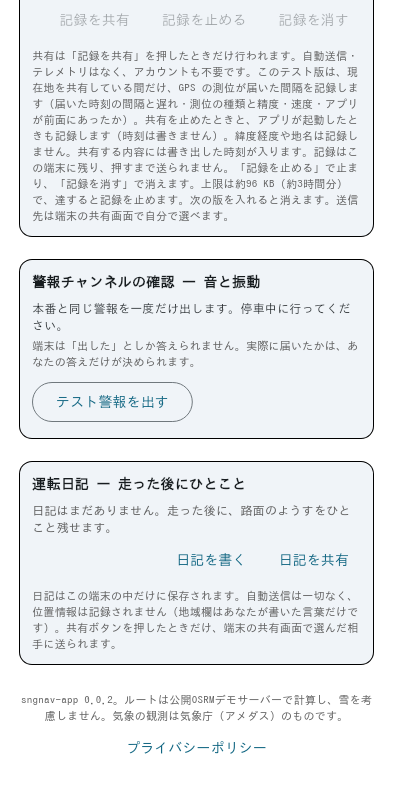
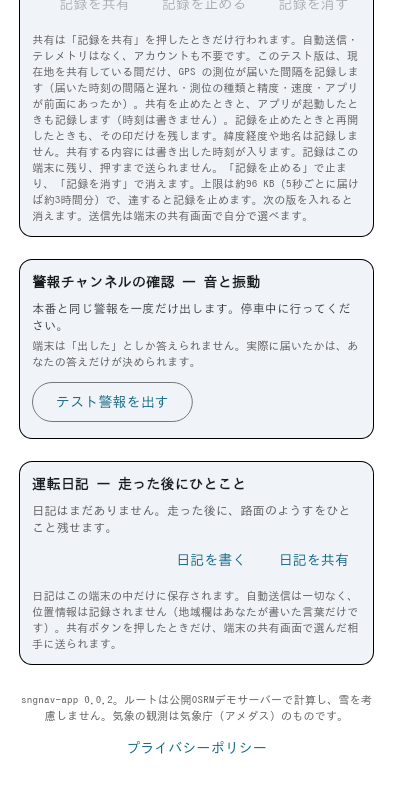
Code 13 only: a pause he makes in the record says itself
While he had stopped the record nothing was written, so a pause inside one
share read as one long interval: the same trace as a phone that went
quiet. Read on the safe side, that could put a false slow-phone verdict
in front of the Chair, and hold back the change that stops tunnels crying
wolf at a driver in unexpected snow.

At 記録を止める, "s=0 t=0 k=pause" is written and flushed before the stop
takes effect. At 記録を再開, "s=0 t=0 k=resume" is written after recording
resumes, through the ordinary guard, so it appears only if recording did
resume. The pause passes the stop guard and never the cap: a full record
still stops, with no line. A second stop or a resume while recording
writes nothing. A launch while he has stopped the record stays unwritten.
The whitelist admits these two shapes and no variant; neither carries a
clock or a coordinate.

The card's words say it marks when he stops and restarts recording, and
its cap now reads "about 3 hours if fixes arrive every 5 s": the duration
held depends on the very interval this build measures. The diary card's
capture, which frames the longer words above it, is updated and looked at.

Changed region(s): [[0.0916, 0.0, 0.916, 0.3015]]

diff --git a/test/services/fix_timing_record_test.dart b/test/services/fix_timing_record_test.dart
@@ -193,7 +193,8 @@ void main() {
       r.stop();
       expect(r.recordEnd(share: 1, msSinceStreamStart: 5), isFalse);
       expect(r.recordLaunch(), isFalse);
-      expect(r.hasLines, isFalse);
+      expect(r.readAll(), '$kFixTimingPauseLine\n',
+          reason: 'only the pause line may be written by a stop');
       final small = open(maxBytes: 256);
       small.resume();
       while (fine(small, 1)) {}
@@ -215,6 +216,71 @@ void main() {
     });
   });
 
+  group('a pause he makes says itself (V15)', () {
+    test('stop writes pause before it takes effect, and nothing after it; '
+        'resume writes resume after recording resumes', () {
+      final r = open();
+      fine(r, 1);
+      r.stop();
+      expect(r.stopped, isTrue);
+      expect(fine(r, 2), isFalse);
+      r.resume();
+      expect(fine(r, 3), isTrue);
+      final lines = r.readAll().split('\n').where((l) => l.isNotEmpty).toList();
+      expect(lines, [
+        startsWith('s=1 t=1000 k=fine'),
+        kFixTimingPauseLine,
+        kFixTimingResumeLine,
+        startsWith('s=1 t=3000 k=fine'),
+      ]);
+    });
+
+    test('a second stop or a resume while recording writes nothing', () {
+      final r = open();
+      r.resume();
+      expect(r.hasLines, isFalse, reason: 'a resume with no pause');
+      r.stop();
+      r.stop();
+      expect(r.readAll(), '$kFixTimingPauseLine\n',
+          reason: 'two pause lines for one pause');
+    });
+
+    test('neither passes the cap: a full record stops with no pause line, and '
+        'resuming a full record writes no resume line', () {
+      final r = open(maxBytes: 300);
+      while (fine(r, 1)) {}
+      expect(r.full, isTrue);
+      final held = r.readAll();
+      r.stop();
+      expect(r.stopped, isTrue, reason: 'the stop must still take effect');
+      expect(r.readAll(), held, reason: 'the pause passed the cap');
+      r.resume();
+      expect(r.readAll(), held, reason: 'the resume passed the cap');
+    });
+
+    test('a launch while he has stopped the record stays unwritten', () async {
+      final first = await openFixTimingRecord(directory: dir);
+      first!.stop();
+      final before = first.readAll();
+      final again = await openFixTimingRecord(directory: dir);
+      expect(again!.readAll(), before, reason: 'a launch was written while stopped');
+    });
+
+    test('the whitelist admits the two shapes and no variant of them', () {
+      expect(kFixTimingLinePattern.hasMatch(kFixTimingPauseLine), isTrue);
+      expect(kFixTimingLinePattern.hasMatch(kFixTimingResumeLine), isTrue);
+      for (final bad in [
+        's=1 t=0 k=pause',
+        's=0 t=5 k=resume',
+        's=0 t=0 k=pause fg=1',
+        's=0 t=0 k=paused',
+        's=0 t=0 k=resume 2026-10-06T09:44:00Z',
+      ]) {
+        expect(kFixTimingLinePattern.hasMatch(bad), isFalse, reason: bad);
+      }
+    });
+  });
+
   group('it yields to him', () {
     test('stop holds: nothing is written while stopped, and the stop survives '
         'reopening; resume writes again', () {
@@ -227,7 +293,10 @@ void main() {
       expect(fine(again, 3), isFalse);
       again.resume();
       expect(fine(again, 4), isTrue);
-      expect(again.readAll().split('\n').where((l) => l.isNotEmpty).length, 2);
+      final lines = again.readAll().split('\n').where((l) => l.isNotEmpty).toList();
+      expect(lines.length, 4);
+      expect(lines[1], kFixTimingPauseLine);
+      expect(lines[2], kFixTimingResumeLine);
     });
 
     test('delete removes every line and changes nothing else', () {

diff --git a/lib/services/fix_timing_record.dart b/lib/services/fix_timing_record.dart
@@ -15,7 +15,12 @@
 ///   `k=end`), and one when the app's process starts (`k=launch`). A share
 ///   with no `end` line followed by a `launch` line ended because the process
 ///   died (killed, crashed or swiped away), not by his tap: the record says so
-///   itself, rather than leaving it to be inferred from share numbers. Each line: the share's number; milliseconds since
+///   itself, rather than leaving it to be inferred from share numbers.
+/// - One line when he stops the record (`k=pause`, written before the stop
+///   takes effect) and one when he records again (`k=resume`, after). An
+///   interval that spans them is his pause, never a phone that went quiet; an
+///   ending inside them is unknown by construction, never hidden. While it is
+///   stopped nothing else is written, a `launch` included. Each line: the share's number; milliseconds since
 ///   that share's stream subscribed; the kind (start, fine fix, coarse fix over
 ///   150 m, a sample with no measured accuracy, or unavailable); the reported
 ///   accuracy in tenths of a metre and the speed the phone reported in tenths
@@ -77,8 +82,14 @@ final RegExp kFixTimingLinePattern = RegExp(
   r'^(s=\d+ t=\d+ k=(start|fine|coarse|noacc|unavail) a=(\d+\.\d|-) '
   r'v=(0|\d+\.\d|-) late=(-?\d+|-) fg=[01]'
   r'|s=\d+ t=\d+ k=end'
-  r'|s=0 t=0 k=launch)$',
+  r'|s=0 t=0 k=(launch|pause|resume))$',
 );
+
+/// The `pause` line: written at his 記録を止める, before the stop takes effect.
+const String kFixTimingPauseLine = 's=0 t=0 k=pause';
+
+/// The `resume` line: written at his 記録を再開, after recording resumes.
+const String kFixTimingResumeLine = 's=0 t=0 k=resume';
 
 /// The `launch` line: written once per process start, when the record opens.
 const String kFixTimingLaunchLine = 's=0 t=0 k=launch';
@@ -157,9 +168,9 @@ class FixTimingRecord {
 
   /// Appends [line] and flushes it, unless he has stopped the record or it is
   /// full. Returns whether it was written.
-  bool _append(String line) {
+  bool _append(String line, {bool evenIfStopped = false}) {
     try {
-      if (stopped || full) return false;
+      if ((!evenIfStopped && stopped) || full) return false;
       file.parent.createSync(recursive: true);
       file.writeAsStringSync('$line\n', mode: FileMode.append, flush: true);
       return true;
@@ -210,19 +221,26 @@ class FixTimingRecord {
     }
   }
 
-  /// Stops recording; the lines held are kept.
+  /// Stops recording; the lines held are kept. Writes the `pause` line first,
+  /// past the stop guard but never past the cap. Nothing if already stopped.
   void stop() {
+    if (stopped) return;
+    _append(kFixTimingPauseLine, evenIfStopped: true);
     try {
       stoppedFile.parent.createSync(recursive: true);
       stoppedFile.writeAsStringSync('stopped\n', flush: true);
     } catch (_) {}
   }
 
-  /// Records again.
+  /// Records again, then writes the `resume` line through the ordinary guard,
+  /// so the line is written only if recording did resume (never past the cap).
+  /// Nothing if it was not stopped.
   void resume() {
+    if (!stopped) return;
     try {
       if (stoppedFile.existsSync()) stoppedFile.deleteSync();
     } catch (_) {}
+    _append(kFixTimingResumeLine);
   }
 
   /// Deletes every line held. Whether it records afterwards is unchanged.

diff --git a/lib/l10n/app_localizations.dart b/lib/l10n/app_localizations.dart
@@ -2009,20 +2009,23 @@ class AppL10n {
           '届いた間隔を記録します（届いた時刻の間隔と遅れ・測位の種類と精度・速度・'
           'アプリが前面にあったか）。'
           '共有を止めたときと、アプリが起動したときも記録します（時刻は書きません）。'
+          '記録を止めたときと再開したときも、その印だけを残します。'
           '緯度経度や地名は記録しません。共有する内容には書き出した時刻が入ります。'
           '記録はこの端末に残り、押すまで送られません。「記録を止める」で止まり、'
-          '「記録を消す」で消えます。上限は約96 KB（約3時間分）で、達すると記録を止めます。'
+          '「記録を消す」で消えます。上限は約96 KB（5秒ごとに届けば約3時間分）で、達すると記録を止めます。'
           '次の版を入れると消えます。送信先は端末の共有画面で自分で選べます。'
       : 'Sharing happens only when you tap Share record — no automatic upload, '
           'no telemetry, and no account. This test build records, only while '
           'you share your location, how far apart GPS fixes arrive (the '
           'interval and delay of each, its kind and accuracy, your speed, and '
           'whether the app was in front), and also when you stop sharing and '
-          'when the app starts (no clock time). It records no coordinates and no '
+          'when the app starts (no clock time), and marks when you stop and '
+          'restart recording. It records no coordinates and no '
           'place names. The shared text '
           'includes the time it was exported. The record stays on this phone '
           'and is sent only when you tap. Stop recording stops it; Delete '
-          'record deletes it. Its cap is about 96 KB (about 3 hours); when '
+          'record deletes it. Its cap is about 96 KB (about 3 hours if fixes '
+          'arrive every 5 s); when '
           'reached, recording stops. It is deleted when the next build is '
           "installed. You choose the destination in your device's share sheet.";
 

diff --git a/test/widgets/fix_timing_record_card_test.dart b/test/widgets/fix_timing_record_card_test.dart
@@ -343,6 +343,8 @@ void main() {
     await app.tap(tester, 'fix-timing-stop-button');
     expect(_textOf(tester, 'fix-timing-status'),
         '測位間隔の記録があります。共有ボタンで送れます。 記録は止めています。');
+    expect(app.lines.last, kFixTimingPauseLine,
+        reason: 'the stop did not mark itself');
     final held = app.lines.length;
     await app.drive(tester, 3, const Duration(seconds: 1));
     expect(app.lines.length, held, reason: 'recorded while stopped');
@@ -350,8 +352,10 @@ void main() {
         reason: 'stopping the record ended her share');
 
     await app.tap(tester, 'fix-timing-stop-button');
+    expect(app.lines.last, kFixTimingResumeLine,
+        reason: 'the resume did not mark itself');
     await app.drive(tester, 2, const Duration(seconds: 1));
-    expect(app.lines.length, held + 2, reason: 'resume did not record');
+    expect(app.lines.length, held + 3, reason: 'resume did not record');
 
     await app.tap(tester, 'fix-timing-share-button');
     expect(app.shared, hasLength(1));
@@ -430,12 +434,15 @@ void main() {
       'この端末に残り、押すまで送られません',
       '「記録を止める」で止まり',
       '共有を止めたときと、アプリが起動したときも記録します（時刻は書きません）',
+      '記録を止めたときと再開したときも、その印だけを残します',
       '「記録を消す」で消えます',
-      '上限は約96 KB',
+      '上限は約96 KB（5秒ごとに届けば約3時間分）',
       '次の版を入れると消えます',
     ]) {
       expect(d, contains(clause));
     }
+    expect(d, isNot(contains('（約3時間分）')),
+        reason: 'a duration the record keeps only if fixes come every 5 s');
     expect(d, isNot(contains('位置情報の履歴は含まれません')),
         reason: 'the record is location-adjacent: that clause would not be so');
   });
